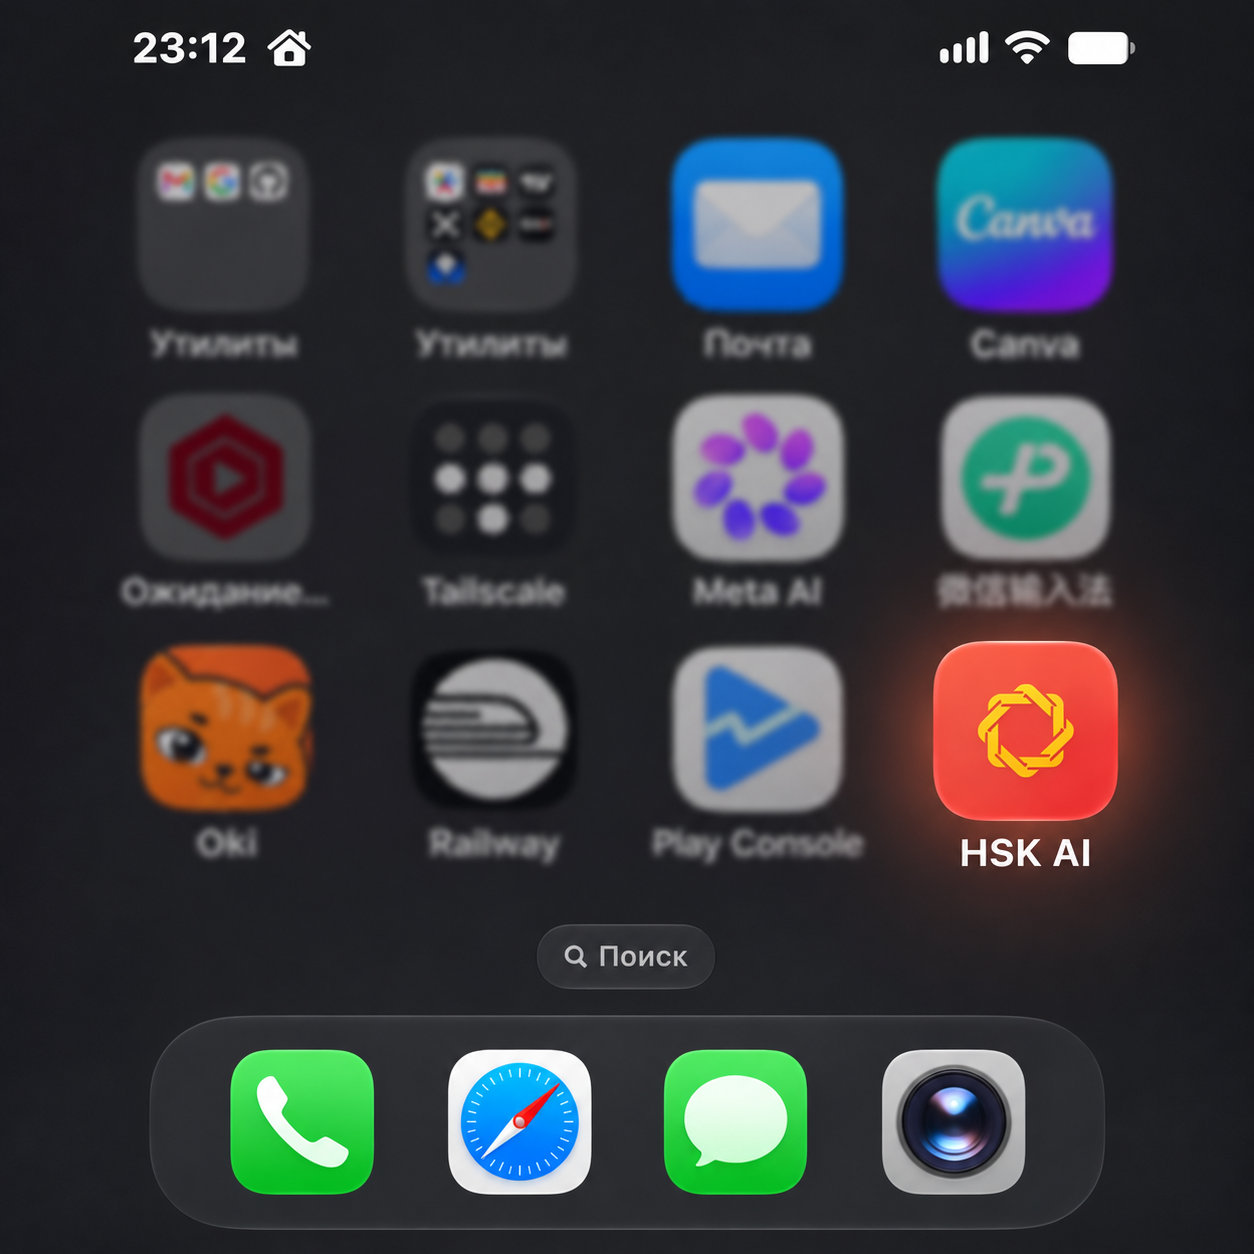
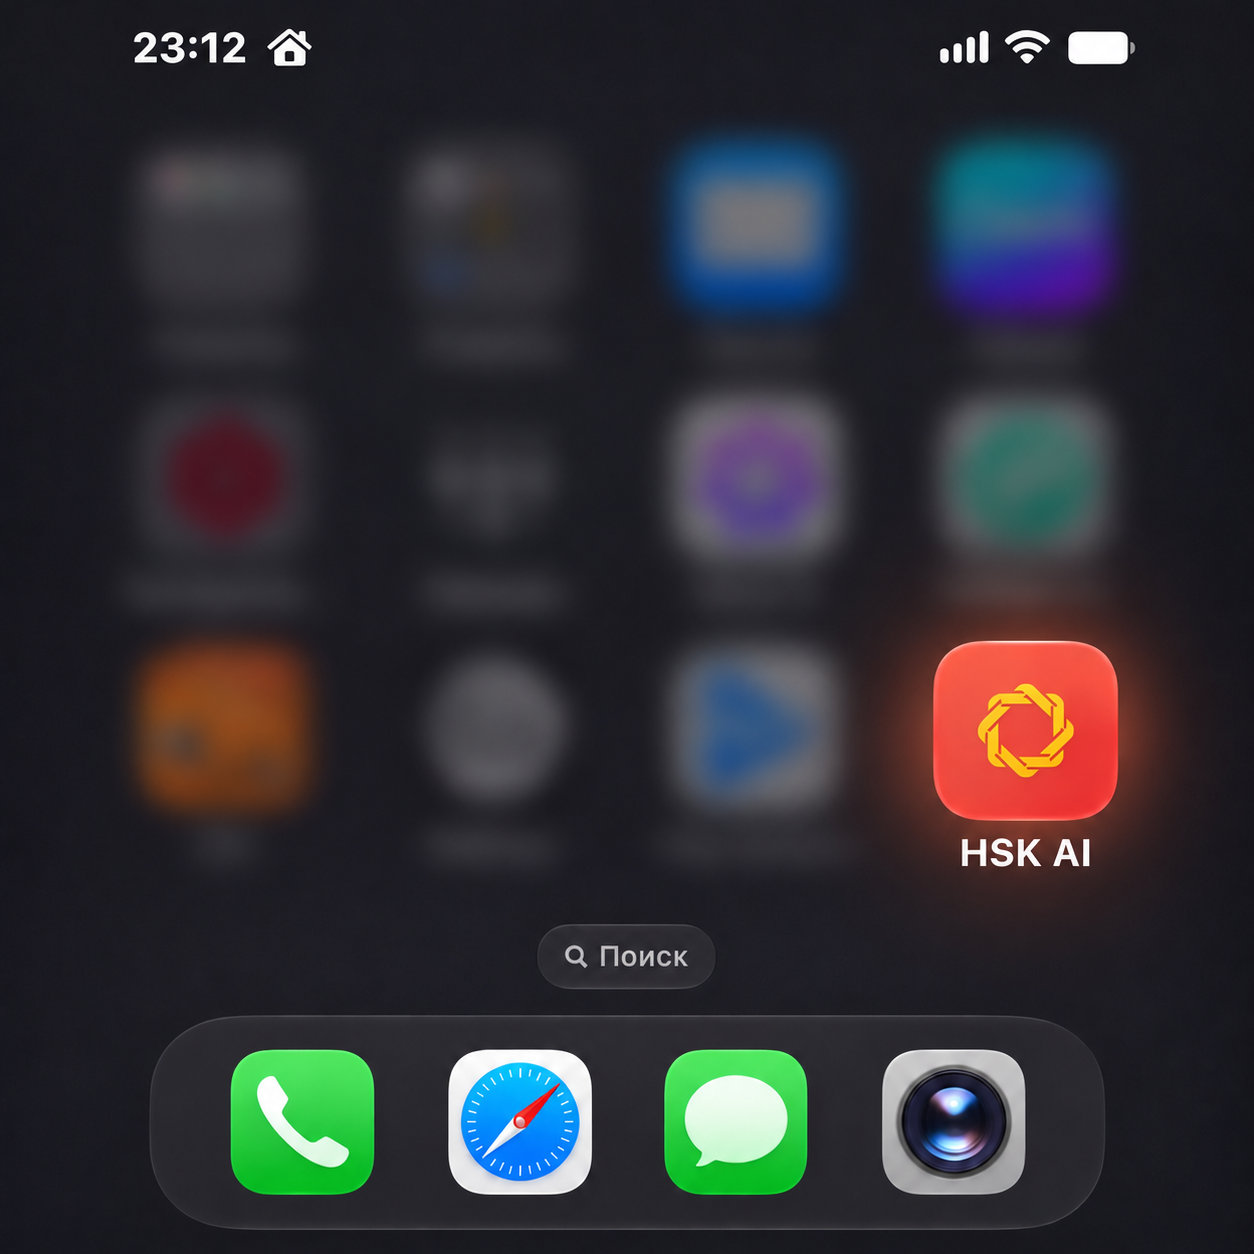
fix: use owner's blurred Home Screen photo in the iPhone install guide
Replace the install-guide hero with the owner-supplied 1254x1254 Home Screen
screenshot where every app except HSK AI is blurred; refresh its cache token,
the install script token and the pinned size/SHA-256.

Analytics Impact: none (image-only change).

Claude-Session: https://claude.ai/code/session_01PauMC8tMxUEgDHKbAFQHM9

diff --git a/app/static/course_v3_li_onboarding.html b/app/static/course_v3_li_onboarding.html
@@ -771,7 +771,7 @@ if(T[LANG]&&window.HSKCharacters&&typeof window.HSKCharacters.render==="function
 }else{liCriticalAssetFailed()}
 </script>
 <script src="/course_v3_data/hsk-common-i18n.js"></script>
-<script src="/course_v3_data/li-onboarding-install.js?v=20261110-db049564c6d8"></script>
+<script src="/course_v3_data/li-onboarding-install.js?v=20261110-6c3489e991e7"></script>
 <script src="/course_v3_data/li-onboarding-runtime.js?v=20261110-3d85772c0235" onerror="liCriticalAssetFailed()"></script>
 </body>
 </html>

diff --git a/app/static/course_v3_data/li-onboarding-install.js b/app/static/course_v3_data/li-onboarding-install.js
@@ -7,7 +7,7 @@
 (function (global) {
   "use strict";
   var VIDEO = "/assets/onboarding/iphone-home-screen.mp4?v=20261109-3e099a0c0489";
-  var HERO = "/assets/onboarding/iphone-install-home-focus.jpg?v=20261110-176ef3953675";
+  var HERO = "/assets/onboarding/iphone-install-home-focus.jpg?v=20261110-4250a78bf29e";
   var PWA_URL = "https://hskai.app/iphone-pwa";
   // Per tab: survives same-tab OAuth/Telegram returns, payment returns and
   // onboarding -> course, so one opening never shows the guide twice.

diff --git a/tests/test_li_install_video_route.py b/tests/test_li_install_video_route.py
@@ -20,10 +20,10 @@ class SafariInstallVideoRouteTests(unittest.IsolatedAsyncioTestCase):
         image = Path("app/static/assets/onboarding/iphone-install-home-focus.jpg")
         self.assertTrue(image.is_file())
         data = image.read_bytes()
-        self.assertEqual(len(data), 125527)
+        self.assertEqual(len(data), 107575)
         self.assertEqual(
             hashlib.sha256(data).hexdigest(),
[2 lines of base64/hex data omitted]
         )
         async with AsyncClient(
             transport=ASGITransport(app=app), base_url="https://hsk.test"

diff --git a/app/static/assets/onboarding/README.md b/app/static/assets/onboarding/README.md
@@ -61,10 +61,11 @@ ffmpeg -i YOUR_ORIGINAL.mp4 \
   same top-right unboxed X, no separate back arrow. Three localized instructions are below the first
   viewport and appear only after swiping down; on missing or stalled video,
   those three instructions replace the player. No autoplay or Continue.
-- Reviewed focus photo (owner replacement 2026-11-10: full iPhone Home Screen
-  with status bar and dock, 1254×1254 JPEG from the supplied PNG):
-  `app/static/assets/onboarding/iphone-install-home-focus.jpg` (125527 bytes,
[1 lines of base64/hex data omitted]
+- Reviewed focus photo (owner replacement 2026-11-10: iPhone Home Screen with
+  status bar and dock, every app except HSK AI blurred, 1254×1254 JPEG from the
+  supplied PNG): `app/static/assets/onboarding/iphone-install-home-focus.jpg`
+  (107575 bytes, SHA-256
[1 lines of base64/hex data omitted]
   publicly served at `/assets/onboarding/iphone-install-home-focus.jpg`.
 - Other iOS browsers: the existing panda, the short "open in Safari" hint, the
   `https://hskai.app/iphone-pwa` link and one Copy Link button (clipboard; if
